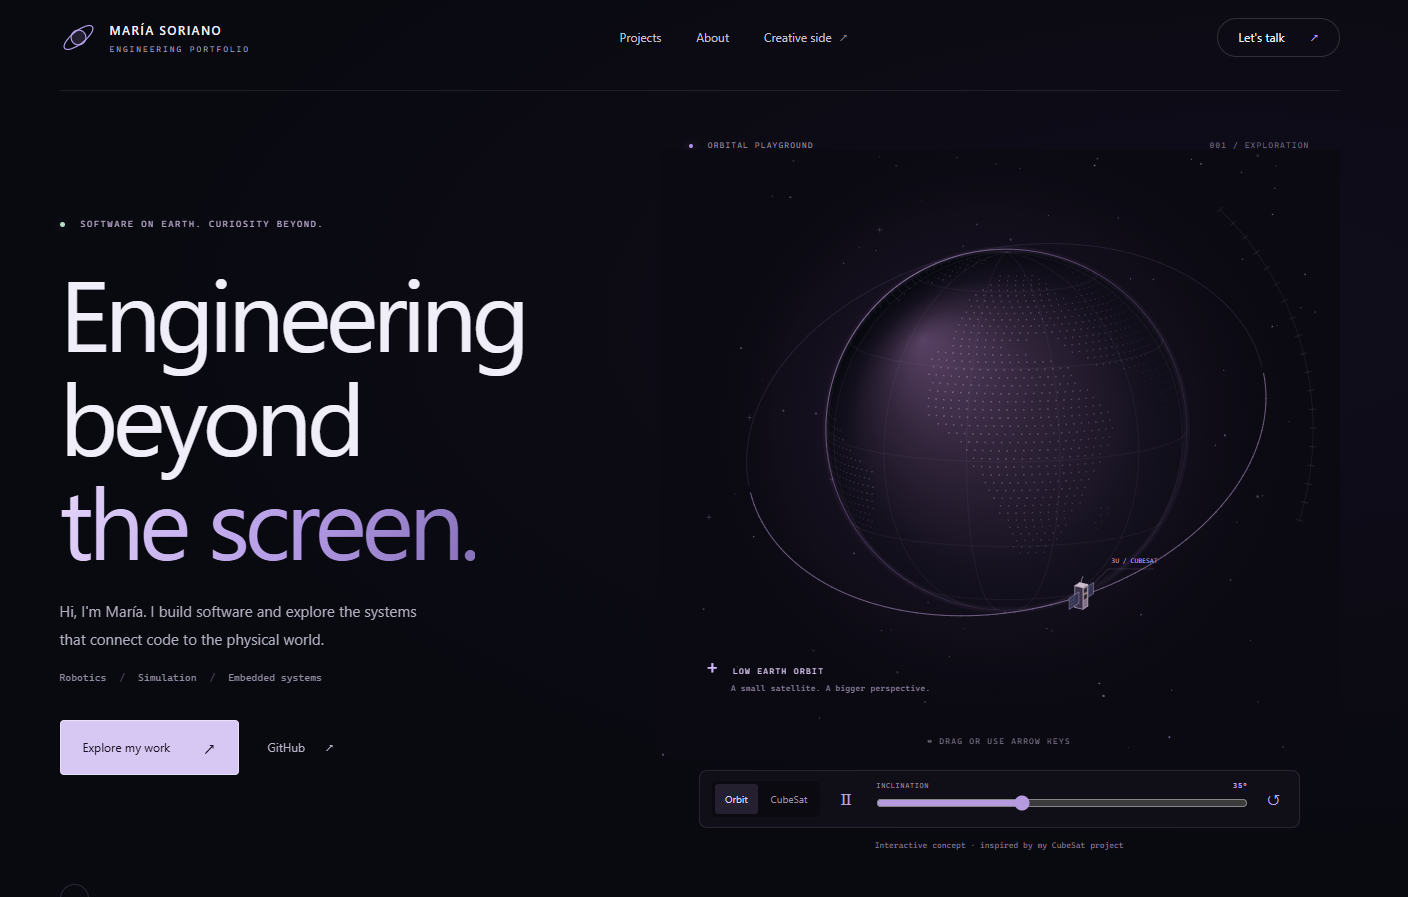
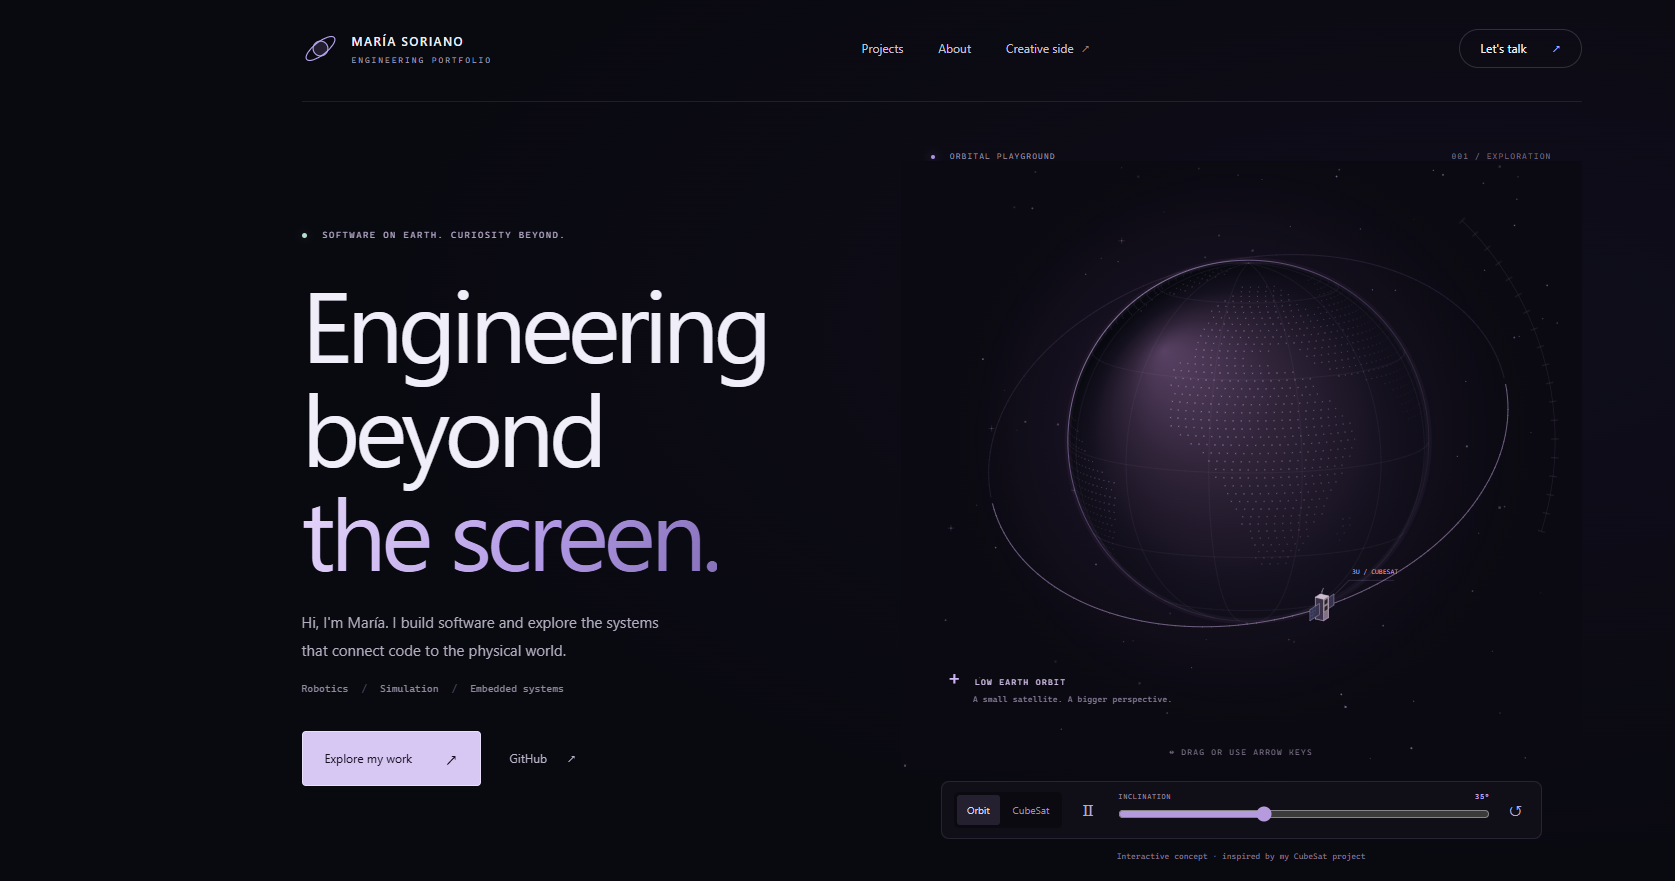
Index updated

diff --git a/index.html b/index.html
@@ -121,63 +121,19 @@
         <header class="choice-heading">
 
 
-            <p class="creator">
-
-                <span>✧</span>
-
-                SHOGANAI
-
-                <span>✧</span>
-
-            </p>
+            <p class="creator">SHOGANAI</p>
 
 
-            <h1>
-
-                Choose Your
-
-                <em>
-                    Experience
-                </em>
-
-            </h1>
+            <h1>Choose your <span class="heading-accent">experience.</span></h1>
 
 
-            <svg
-                class="title-flourish"
-                viewBox="0 0 760 32"
-                aria-hidden="true"
-            >
-
-                <path
-                    d="M8 27C176 1 530-2 748 24C506 5 196 8 8 27Z"
-                    fill="currentColor"
-                />
-
-                <path
-                    d="M50 27C225 9 492 7 700 26"
-                    fill="none"
-                    stroke="currentColor"
-                    stroke-width="1.3"
-                />
-
-            </svg>
+            
 
 
-            <span
-                class="heading-star star-left"
-                aria-hidden="true"
-            >
-                ✧
-            </span>
+            
 
 
-            <span
-                class="heading-star star-right"
-                aria-hidden="true"
-            >
-                ✦
-            </span>
+            
 
 
         </header>
@@ -284,12 +240,7 @@
                 </span>
 
 
-                <span
-                    class="card-sparkle"
-                    aria-hidden="true"
-                >
-                    ✧
-                </span>
+                
 
 
             </a>
@@ -354,69 +305,33 @@
                             class="card-arrow"
                             aria-hidden="true"
                         >
-                            →
+                            <svg viewBox="0 0 24 24" focusable="false" aria-hidden="true" shape-rendering="crispEdges"><path d="M12 4h4v4h4v4h4v4h-4v4h-4v4h-4v-8H0v-4h12z" transform="translate(2 0) scale(.833333)" fill="currentColor"/></svg>
                         </span>
 
 
                     </div>
 
 
-                    <i
-                        class="pixel-corner corner-tl"
-                        aria-hidden="true"
-                    ></i>
+                    
 
-                    <i
-                        class="pixel-corner corner-tr"
-                        aria-hidden="true"
-                    ></i>
+                    
 
-                    <i
-                        class="pixel-corner corner-bl"
-                        aria-hidden="true"
-                    ></i>
+                    
 
-                    <i
-                        class="pixel-corner corner-br"
-                        aria-hidden="true"
-                    ></i>
+                    
 
 
                 </div>
 
 
-                <span
-                    class="leaf-sprig sprig-top"
-                    aria-hidden="true"
-                >
-
-                    <i></i>
-                    <i></i>
-                    <i></i>
-                    <i></i>
-                    <i></i>
-
-                </span>
+                <span class="leaf-sprig sprig-top" aria-hidden="true"></span>
+                <span class="leaf-sprig sprig-bottom" aria-hidden="true"></span>
 
 
-                <span
-                    class="leaf-sprig sprig-bottom"
-                    aria-hidden="true"
-                >
-
-                    <i></i>
-                    <i></i>
-                    <i></i>
-
-                </span>
+                
 
 
-                <span
-                    class="card-sparkle"
-                    aria-hidden="true"
-                >
-                    ✦
-                </span>
+                
 
 
             </a>
@@ -441,7 +356,7 @@
 
 
                         <img
-                            src="assets/landing/engineering.png"
+                            src="assets/landing/cubesat-blueprint.svg"
                             width="960"
                             height="640"
                             alt=""
@@ -453,7 +368,7 @@
                             class="art-label"
                             aria-hidden="true"
                         >
-                            A CURIOSITY WITHOUT LIMITS
+                            SPACE SYSTEMS / CONCEPT STUDY
                         </span>
 
 
@@ -523,23 +438,20 @@
                 </div>
 
 
-                <span
-                    class="engineering-pin"
-                    aria-hidden="true"
-                >
-                    ✧
-                </span>
+                
 
 
-                <span
-                    class="card-sparkle"
-                    aria-hidden="true"
-                >
-                    ✦
-                </span>
+                
 
 
-            </a>
+                            <svg class="circuit-trim" viewBox="0 0 340 90" aria-hidden="true" focusable="false">
+                    <g fill="none" stroke="currentColor" stroke-width="1.5">
+                        <path d="M2 76V38L27 13H115L128 26H183L202 7H290M2 56L28 30H93L109 46H153M338 5V51L316 73H236L224 61H185"/>
+                        <circle cx="290" cy="7" r="4"/><circle cx="153" cy="46" r="3"/><circle cx="185" cy="61" r="3"/>
+                        <path d="M41 13V2M56 13V2M71 13V2M86 13V2M251 73V86M266 73V86M281 73V86"/>
+                    </g>
+                </svg>
+</a>
 
 
         </nav>

diff --git a/style.css b/style.css
@@ -3542,3 +3542,88 @@ and
     }
 
 }
+/* Refined heading and distinct frame details. */
+.choice-heading { margin-bottom: clamp(45px, 6vw, 80px); }
+.choice-heading .creator { color: #9baabc; font: 500 10px/1.5 var(--sans); letter-spacing: .36em; margin: 0 0 22px; }
+.choice-heading h1 { font-family: var(--sans); font-weight: 500; font-size: clamp(35px, 4.5vw, 66px); line-height: 1.17; letter-spacing: -.055em; color: #eff3f8; margin: 0; text-shadow: none; }
+.heading-accent { color: #b0c8e5; }
+.engineering-card { transform: rotate(2.5deg) translateY(5px); }
+.engineering-card .card-frame { border-color: #6d9caf; box-shadow: inset 0 0 0 4px #0c1726, inset 0 0 22px #86dbe514; }
+.circuit-trim { position: absolute; top: -17px; left: 0; width: 100%; height: 90px; color: #81bcc9; pointer-events: none; opacity: .9; filter: drop-shadow(0 0 4px #69d6ef30); }
+.engineering-card .orbit-emblem { stroke: #b1e7ef; }
+@media(hover:hover) { .engineering-card:hover { transform: rotate(.5deg) translateY(-10px); } }
+@media(max-width:800px) {
+    .choice-heading h1 { max-width: 560px; margin-inline: auto; font-size: clamp(35px,7vw,52px); }
+    .heading-accent { display: block; }
+    .engineering-card { transform: rotate(1.7deg); }
+    .circuit-trim { top: -14px; height: 75px; }
+    .game-card .leaf-sprig { width: 145px; }
+    .game-card .sprig-top { right: 4px; }
+}
+/* Game ? a pixel-cut cartridge with a recessed screen and a quiet label panel. */
+.game-card .card-frame {
+    padding: 14px 10px 10px;
+    border: 0;
+    outline: none;
+    background: #263e35;
+    box-shadow: inset 0 3px #9caf8e, inset 3px 0 #617d65,
+                inset -3px 0 #13271e, inset 0 -5px #10231c;
+    clip-path: polygon(0 8px, 8px 8px, 8px 0, calc(100% - 8px) 0,
+        calc(100% - 8px) 8px, 100% 8px, 100% calc(100% - 8px),
+        calc(100% - 8px) calc(100% - 8px), calc(100% - 8px) 100%,
+        8px 100%, 8px calc(100% - 8px), 0 calc(100% - 8px));
+}
+.game-card .card-art {
+    border: 3px solid #10241c;
+    box-shadow: 0 2px #6f886a;
+}
+.game-card .card-caption {
+    position: relative;
+    margin-top: 12px;
+    padding: 18px 16px;
+    background: #101f19;
+    border: 0;
+    box-shadow: inset 0 1px #526a52;
+}
+.game-card h2 {
+    color: #f1f5e8; font-size: clamp(38px, 3.5vw, 52px);
+    font-weight: 500; letter-spacing: 0; text-shadow: none;
+}
+.game-card .chapter { color: #afc49f; opacity: 1; font-size: 10px; }
+.game-card .card-caption p { color: #c9d4c5; font: 400 10px/1.6 var(--sans); letter-spacing: .04em; }
+.game-card .card-arrow {
+    flex: 0 0 48px; width: 48px; height: 48px;
+    display: grid; place-items: center;
+    color: #e3efcd; background: #304b37;
+    border: 0; border-radius: 0; outline: none;
+    box-shadow: inset 0 3px #859e68, inset 3px 0 #658354,
+                inset -3px 0 #203724, inset 0 -4px #152b1e;
+    clip-path: polygon(4px 0, calc(100% - 4px) 0, calc(100% - 4px) 4px,
+        100% 4px, 100% calc(100% - 4px), calc(100% - 4px) calc(100% - 4px),
+        calc(100% - 4px) 100%, 4px 100%, 4px calc(100% - 4px),
+        0 calc(100% - 4px), 0 4px, 4px 4px);
+}
+.game-card .card-arrow::after { content: none; }
+.game-card .card-arrow svg { width: 24px; height: 24px; transition: transform 160ms steps(2, end); }
+.game-card:is(:hover, :focus-visible) .card-arrow { background: #3e5b40; }
+.game-card:is(:hover, :focus-visible) .card-arrow svg { transform: translateX(2px); }
+.game-card .leaf-sprig {
+    display: block; position: absolute; z-index: 3;
+    width: 220px; height: 90px; border: 0; border-radius: 0;
+    background: url('assets/landing/ivy-sprig.svg') center / contain no-repeat;
+    image-rendering: auto; filter: drop-shadow(0 2px 2px #08170f80); pointer-events: none;
+}
+.game-card .sprig-top { top: -33px; right: -9px; left: auto; bottom: auto; transform: none; }
+.game-card .sprig-bottom { bottom: -52px; left: -9px; top: auto; right: auto; transform: rotate(180deg); }
+.game-card .art-label, .engineering-card .art-label {
+    color: #e4f2ef; background: #0a1927ed; padding: 7px 9px; left: 10px; bottom: 10px;
+    max-width: calc(100% - 20px); font: 500 9px/1.5 var(--sans); letter-spacing: .08em; text-shadow: none;
+}
+.engineering-card .card-art { background: #081521; }
+.engineering-card .card-art img { object-fit: contain; filter: none; }
+.engineering-card .orbit-emblem { display: none; }
+@media (max-width: 600px) {
+    .game-card .leaf-sprig { width: 176px; height: 72px; }
+    .game-card .sprig-top { top: -26px; right: -7px; }
+    .game-card .sprig-bottom { bottom: -42px; left: -7px; }
+}
